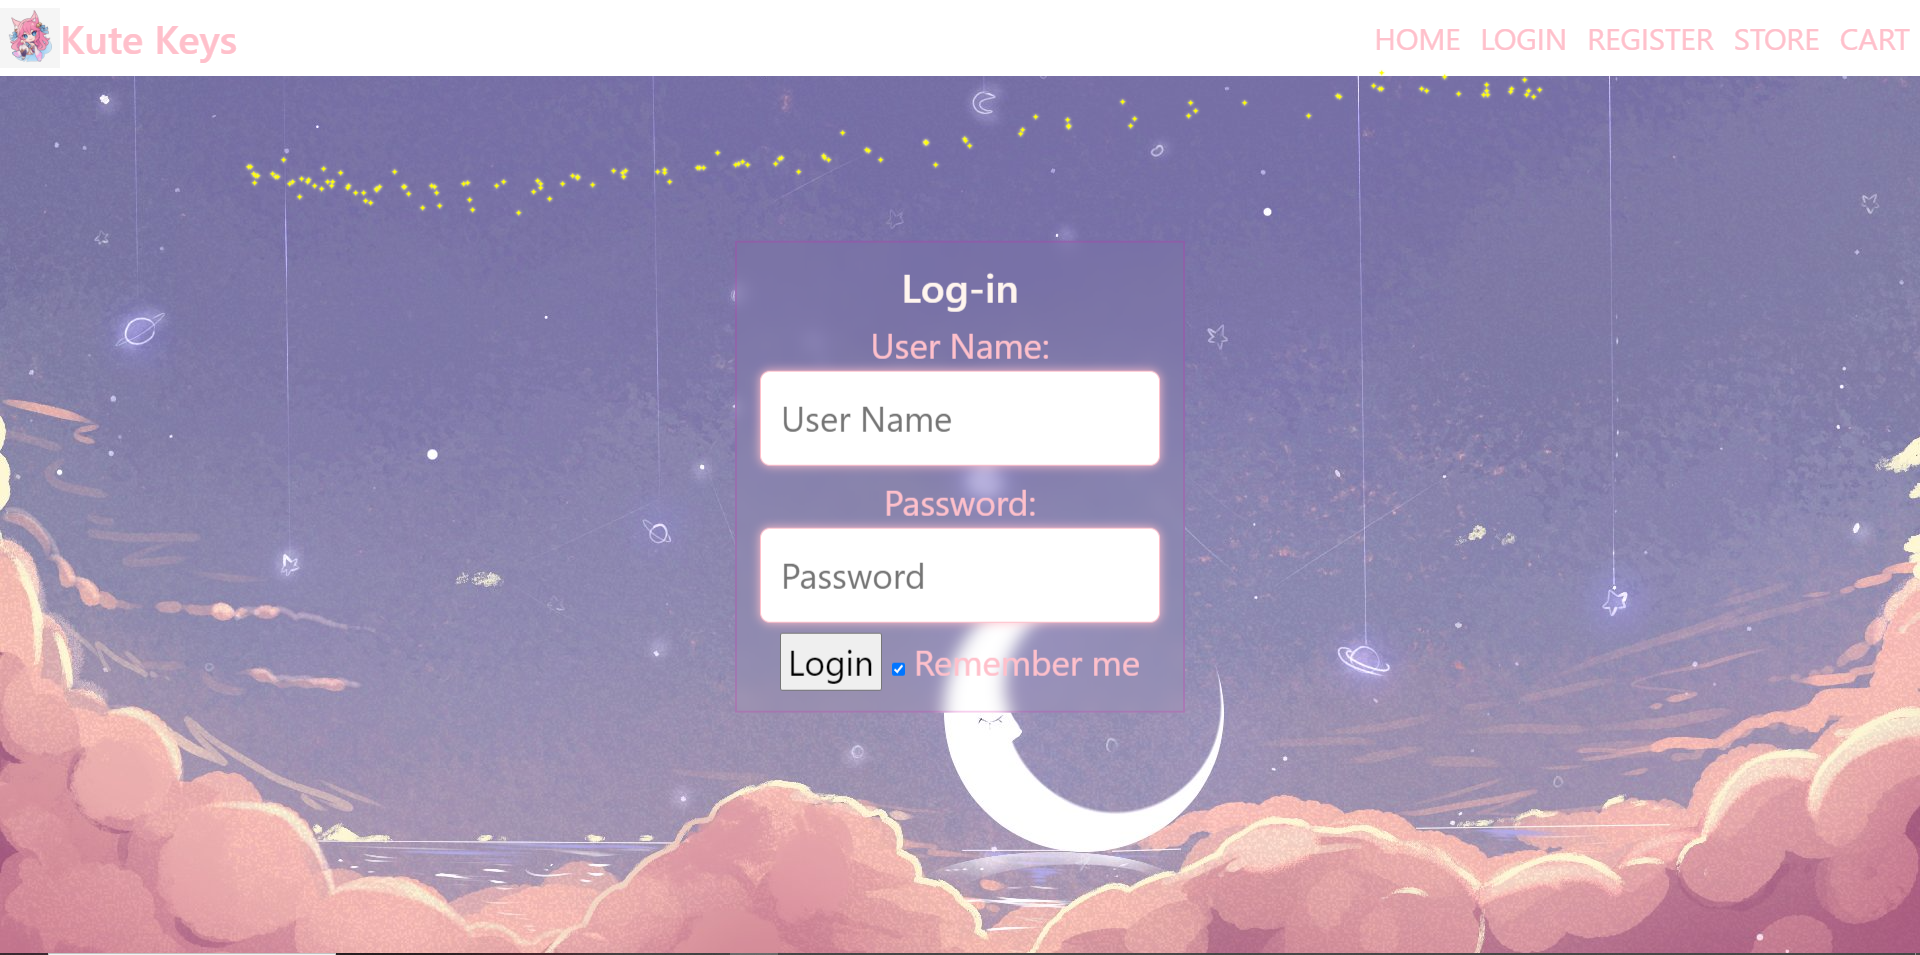
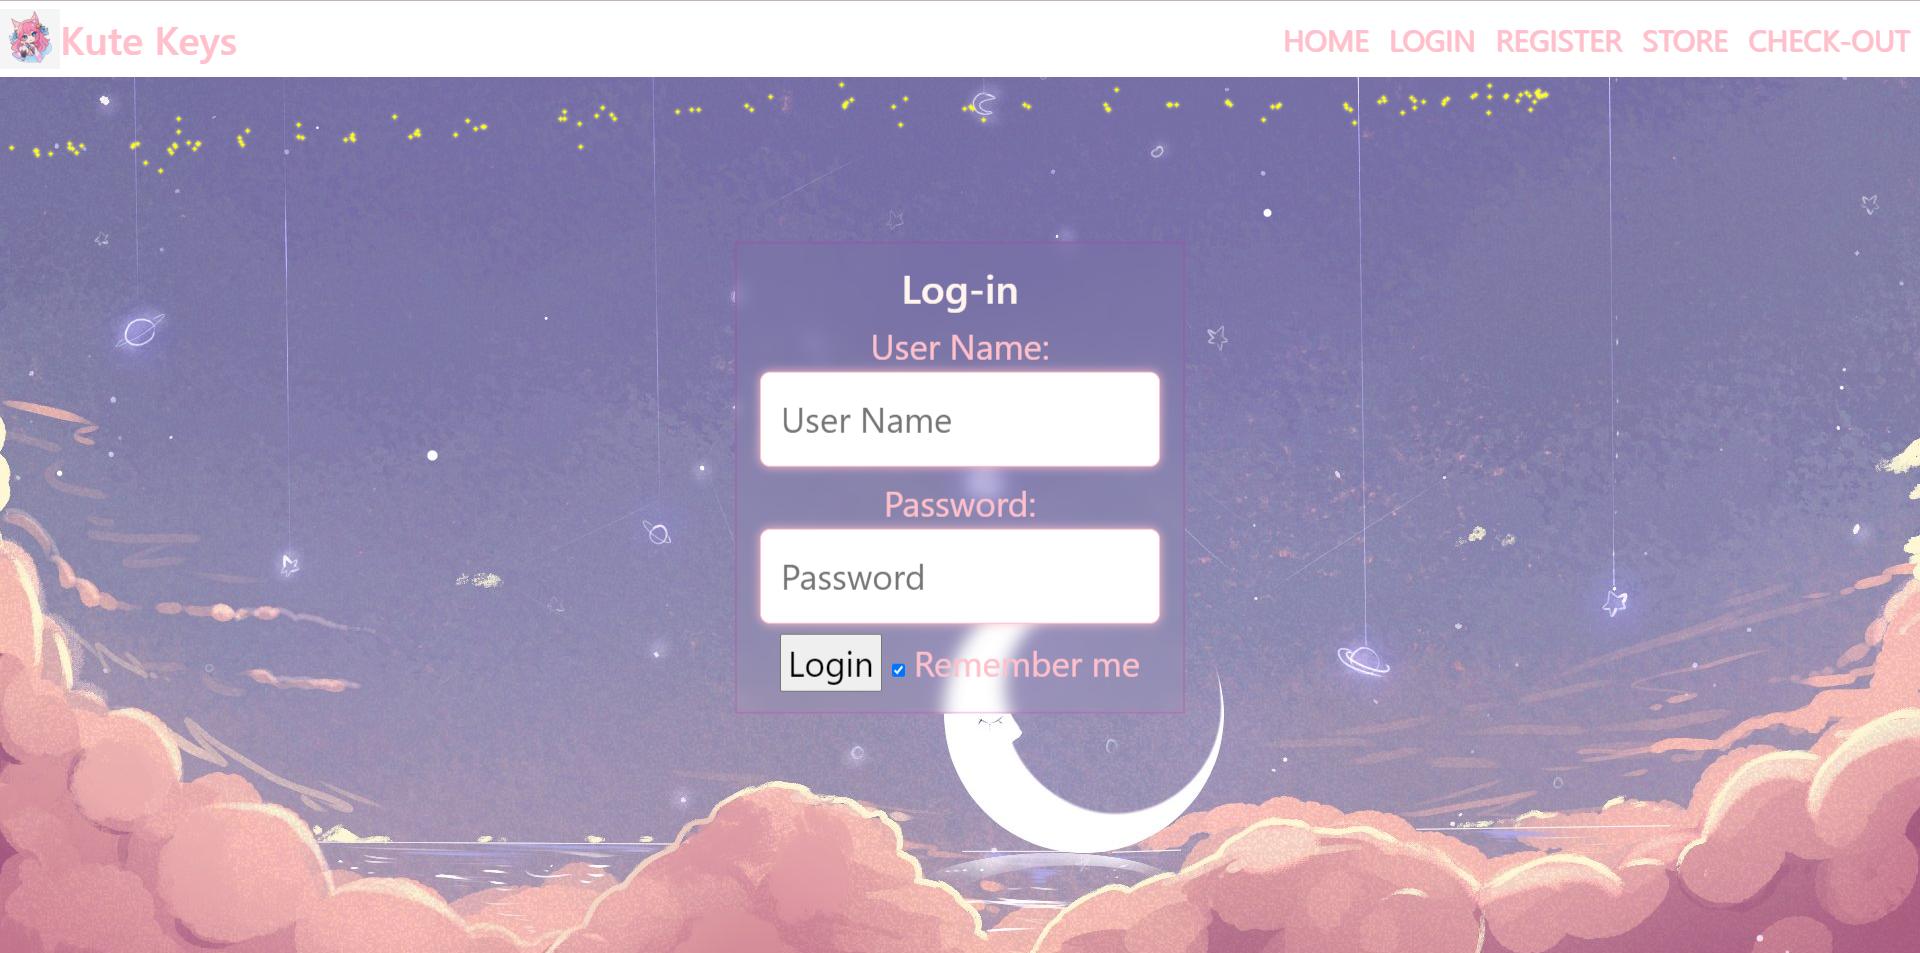
Readme and Checkout edits

diff --git a/checkout.html b/checkout.html
@@ -1,0 +1,99 @@
+<!DOCTYPE html>
+<html lang="en">
+<head>
+    <meta charset="UTF-8">
+    <meta name="viewport" content="width=device-width, initial-scale=1.0">
+    <title>Cart</title>
+    <link href="https://cdn.jsdelivr.net/npm/bootstrap@5.3.3/dist/css/bootstrap.min.css" rel="stylesheet" integrity="sha384-QWTKZyjpPEjISv5WaRU9OFeRpok6YctnYmDr5pNlyT2bRjXh0JMhjY6hW+ALEwIH" crossorigin="anonymous">
+    <script src="https://cdn.jsdelivr.net/npm/bootstrap@5.3.3/dist/js/bootstrap.bundle.min.js" integrity="sha384-YvpcrYf0tY3lHB60NNkmXc5s9fDVZLESaAA55NDzOxhy9GkcIdslK1eN7N6jIeHz" crossorigin="anonymous"></script>
+    <link rel="stylesheet" href="./styles/main.css">
+    <script src="./scripts/index.js"></script>
+    <link rel="stylesheet" href="./styles/checkout.css">
+</head>
+<body>
+    <header>
+        <div class ="navbar">
+          <img class="logo" src="../images/chibi-ahri.jpg">
+          <h1>Kute Keys</h1>
+          <nav>
+          <ul>
+              <li class="nav-item">
+                <a class="nav-link" a href="index.html">HOME</a>
+              </li> 
+              <li class="nav-item">
+                <a class="nav-link" a href="login.html">LOGIN</a>
+              </li>
+              <li class="nav-item">
+                <a class="nav-link" a href="register.html">REGISTER</a
+              </li>
+              <li class="nav-item">
+                <a class="nav-link" a href="store.html">STORE</a>  
+              </li>
+              <li class="nav-item">
+                  <a class="nav-link" a href="checkout.html">CHECK-OUT</a>
+              </li>
+            </ul>
+          </nav>
+        </div>
+    </header> 
+          <div class="row">
+            <div class="col-75">
+              <div class="container">
+                <form action="/action_page.php">
+                
+                  <div class="row">
+                    <div class="col-50">
+                      <h3>Billing Address</h3>
+                      <label for="fname"><i class="fa fa-user"></i> Full Name</label>
+                      <input type="text" id="fname" name="firstname" placeholder="First name Last name">
+                      <label for="email"><i class="fa fa-envelope"></i> Email</label>
+                      <input type="text" id="email" name="email" placeholder="name@example.com">
+                      <label for="adr"><i class="fa fa-address-card-o"></i> Address</label>
+                      <input type="text" id="adr" name="address" placeholder="123 First Street">
+                      <label for="city"><i class="fa fa-institution"></i> City</label>
+                      <input type="text" id="city" name="city" placeholder="City">
+          
+                      <div class="row">
+                        <div class="col-50">
+                          <label for="state">State</label>
+                          <input type="text" id="state" name="state" placeholder="State">
+                        </div>
+                        <div class="col-50">
+                          <label for="zip">Zip</label>
+                          <input type="text" id="zip" name="zip" placeholder="00000">
+                        </div>
+                      </div>
+                    </div>
+          
+                  </div>
+                  <label>
+                    <input type="checkbox" checked="checked" name="sameadr"> Shipping address same as billing
+                  </label>
+                  <input type="submit" value="Continue to checkout" class="btn">
+                </form>
+              </div>
+            </div>
+            <div class="col-25">
+              <div class="container">
+                <h4>Cart <span class="price" style="color:black"><i class="kk-shopping-cart"></i> <b>4</b></span></h4>
+                <p><a href="#">Hamtaro Keychain</a> <span class="price">$3.99</span></p>
+                <p><a href="#">Kirby Keychain</a> <span class="price">$3.99</span></p>
+                <p><a href="#">Pikachu Keychain</a> <span class="price">$5.99</span></p>
+                <p><a href="#">Star Guardan Lulu Keychain</a> <span class="price">$3.99</span></p>
+                <hr>
+                <p>Total <span class="price" style="color:black"><b>$17.96</b></span></p>
+              </div>
+            </div>
+          </div>
+          
+          </body>
+          </html>
+           
+
+        
+
+    </div>
+    
+    <footer>&copy;</footer>
+</body>
+</html>

diff --git a/styles/checkout.css b/styles/checkout.css
@@ -1,0 +1,126 @@
+header {
+  background-color: white;
+  color:pink ;
+
+}
+.navbar{
+  display: flex;
+  justify-content: space-between;
+  align-items: center;
+  font-size: 30px;
+  background-color: white;
+  text-align:center ;
+}
+.navbar h1{
+  margin: 0;
+  margin-right: auto;
+  color: pink;
+}
+.navbar nav ul{
+  list-style: none;
+  padding: 0;
+  margin:0;
+  display:  flex;
+  margin-right: 10px;
+}
+.nav-item{
+  margin-left: 20px;
+  
+}
+* {
+    box-sizing: border-box;
+}
+  
+.row {
+    display: -ms-flexbox; /* IE10 */
+    display: flex;
+    -ms-flex-wrap: wrap; /* IE10 */
+    flex-wrap: wrap;
+    margin: 0 -16px;
+    color: fuchsia;
+}
+  
+.col-25 {
+    -ms-flex: 20%; /* IE10 */
+    flex: 20%;
+}
+  
+.col-50 {
+    -ms-flex: 45%; /* IE10 */
+    flex: 45%;
+    margin-right: 20px;
+}
+  
+.col-75 {
+    -ms-flex: 70%; /* IE10 */
+    flex: 70%;
+}
+  
+.col-25,
+.col-50,
+.col-75 {
+    padding: 0 16px;
+}
+  
+.container {
+    background-color: #f2f2f2;
+    padding: 5px 15px 15px 20px;
+    border: 1px solid lightgrey;
+    border-radius: 3px;
+    margin-top: 5%;
+    width: 60%;
+}
+  
+input[type=text] {
+    width: 100%;
+    margin-bottom: 20px;
+    padding: 12px;
+    border: 1px solid #ccc;
+    border-radius: 3px;
+}
+  
+label {
+    margin-bottom: 10px;
+    display: block;
+}
+  
+.icon-container {
+    margin-bottom: 20px;
+    padding: 7px 0;
+    font-size: 24px;
+}
+  
+  .btn {
+    background-color:pink;
+    color: white;
+    padding: 12px;
+    margin: 10px 0;
+    border: none;
+    width: 100%;
+    border-radius: 3px;
+    cursor: pointer;
+    font-size: 17px;
+  }
+  
+  .btn:hover {
+    background-color: lavender;
+  }
+  
+  a {
+    color:rgb(169, 169, 236);
+  }
+  
+  hr {
+    border: 1px solid lightgrey;
+  }
+  
+  span.price {
+    float: right;
+    color: rgb(238, 179, 189);
+    margin-right: 10px;
+  }
+  .col-25 .container {
+    margin-top: 20%;
+    width: 90%;
+  }
+  

diff --git a/styles/login.css b/styles/login.css
@@ -8,6 +8,12 @@ body {
 
 }
 
+header {
+    background-color: white;
+    color:pink ;
+    
+  
+}
 .navbar{
     display: flex;
     justify-content: space-between;
@@ -27,17 +33,11 @@ body {
     margin:0;
     display:  flex;
     margin-right: 10px;
+    text-shadow: 1px 1px pink
 }
 .nav-item{
     margin-left: 20px;
     
-}
-
-.nav-link {
-    color: pink;
-}
-a.nav-link:hover {
-    color: fuchsia;
 }
 .content{
     display: flex;

diff --git a/register.html b/register.html
@@ -31,7 +31,7 @@
                     <a class="nav-link" a href="store.html">STORE</a>  
                   </li>
                   <li class="nav-item">
-                      <a class="nav-link" a href="Cart.html">CART</a>
+                      <a class="nav-link" a href="checkout.html">CHECK-OUT</a>
                   </li>
                 </ul>
               </nav>

diff --git a/index.html b/index.html
@@ -29,7 +29,7 @@
                   <a class="nav-link" a href="store.html">STORE</a>
                 </li>
                 <li class="nav-item">
-                  <a class="nav-link" a href="Cart.html">CART</a>
+                  <a class="nav-link" a href="checkout.html">CHECK-OUT</a>
                 </li>
             </ul>
           </nav>

diff --git a/store.html b/store.html
@@ -30,7 +30,7 @@
                 <a class="nav-link" a href="store.html">STORE</a>  
               </li>
               <li class="nav-item">
-                  <a class="nav-link" a href="Cart.html">CART</a>
+                  <a class="nav-link" a href="checkout.html">CHECK-OUT</a>
               </li>
             </ul>
           </nav>

diff --git a/login.html b/login.html
@@ -29,7 +29,7 @@
               <a class="nav-link" a href="store.html">STORE</a>  
             </li>
             <li class="nav-item">
-                <a class="nav-link" a href="Cart.html">CART</a>
+                <a class="nav-link" a href="checkout.html">CHECK-OUT</a>
             </li>
           </ul>
         </nav>

diff --git a/README.md b/README.md
@@ -1,26 +1,21 @@
 # Capstone1
 
-##Home Page
-This homepage is just giving a litte introduction on what we sell and how customers are able to contact us. 
+##Home Page 
 One interesting think I did on this page was add a bootstrap carousel. 
 <img alt="HOME PAGE" width="100%" src="./images/homepage.PNG">
 
 ##Log-In Page
-This page allows people to log in to their existing account. 
 An interesting thing on this page was the added backdrop filter. I made it transparent while also have a blur behind it. 
 <img alt="Log-In Page" width="100%" src="./images/loginpage.PNG">
 
 ##Register Page
-This page allows users to sign up for an account. 
 As I did with the Log in page I added a backdrop filter. I made it transparent while also have a blur behind it.
 <img alt="Register Page" width="100%" src="./images/registerpage.PNG" >
 
-##Store Page
-This page showcases some of the items the store sells. 
-On the Store page I did not do anything "interestin" but I did spend quite a bit of time formating. 
+##Store Page 
+On the Store page I did not do anything "interesting" but I did spend quite a bit of time formating. 
 <img alt="Store Page" width="100%" src="./images/storepage.PNG">
 
-##Cart Page
-This page shows users what they have added to their cart to purchase. 
-I did some basic css here. Making someone of the bordereds dotted with a different color. 
-<img alt="Cart Page" width="100%" src="./images/cartpage.PNG">
+##Check-Out Page. 
+Using bootstrap and and css i was able to position the containers a certian way. 
+<img alt="Cart Page" width="100%" src="./images/checkoutpage.PNG">
